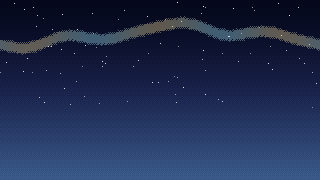
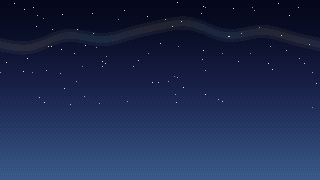
Tela de título "Pavio — a última chama" e aurora mais suave
- Menu principal vira uma clareira escura da floresta: o Pavio sentado
  numa pedra, a única chama acesa, com luar, névoa e vaga-lumes; título
  com brilho quente e botões mais discretos.
- Aurora da Cidadela Celeste mais sutil.

Claude-Session: https://claude.ai/code/session_01FTTpYr4Nrvs32nF6M4x88R

Changed region(s): [[0.0, 0.0833, 1.0, 0.3056]]

diff --git a/tools/world_art.py b/tools/world_art.py
@@ -635,11 +635,12 @@ def sky(P, L):
                 t = 1.0 - abs(y - yc + 5) / 10.0
                 if t <= 0:
                     continue
-                if _dither(x, y, t * 0.8, 4) > 0.4:
-                    col = mix(a1, a2, 0.5 + 0.5 * math.sin(x * 0.05))
-                    c.set(x, y, mix(c.get(x, y), col, 0.35))
-                    if _dither(x, y, t, 4) > 0.9:
-                        L.g.set(x, y, alpha(col, 70))
+                col = mix(a1, a2, 0.5 + 0.5 * math.sin(x * 0.05))
+                k = int(t * 3) / 3.0
+                if k > 0:
+                    c.set(x, y, mix(c.get(x, y), col, 0.16 * k))
+                    if k >= 0.99 and (x + y) % 2 == 0:
+                        L.g.set(x, y, alpha(col, 22))
     if P.get("moon"):
         mx, my = 250, 36
         rr = 13 if P.get("bigmoon") else 9
